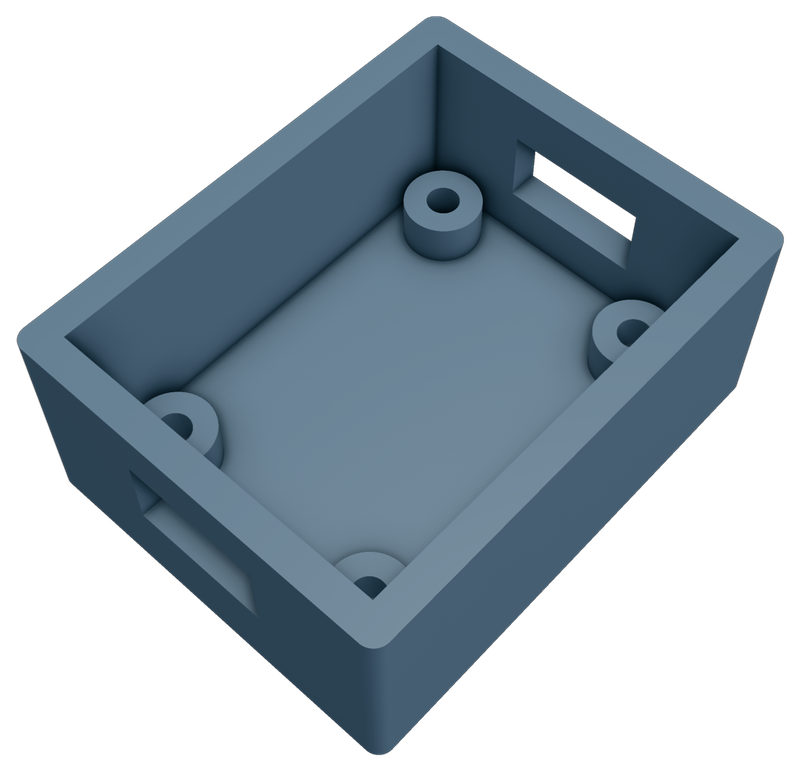
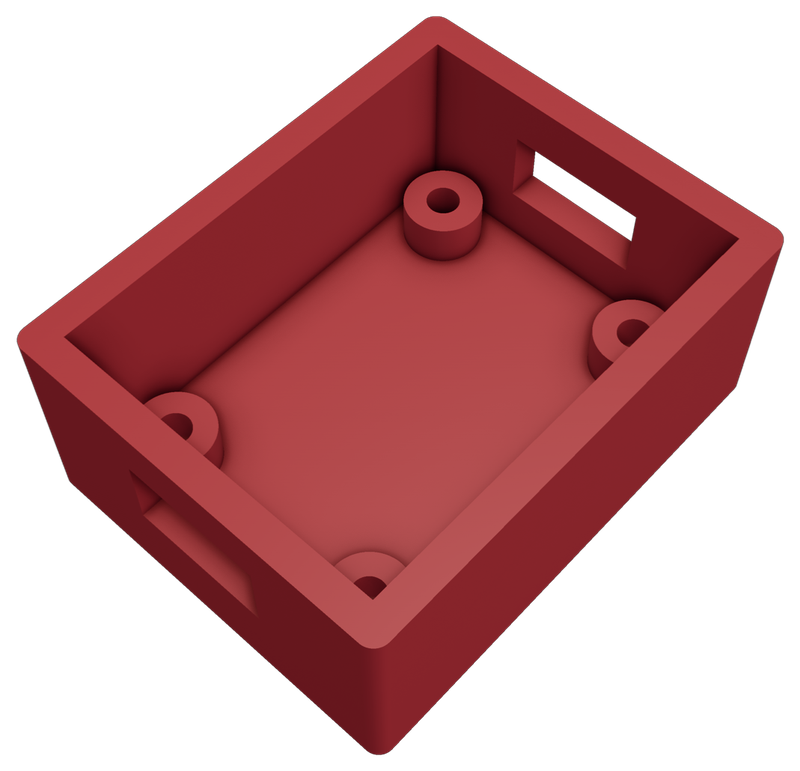
Put the parts in the suit
Red base, blue lid. The README already credits Spider-Man for the idea and the
logo is a spider; the renders may as well be in on it.

The colour values look brighter than what comes out. Filmic tone mapping
compresses the top end, so red has to be asked for at full saturation to land as
red rather than maroon. Both escapes make it worse and are noted in the script:
without tone mapping the shading goes dusty pastel, and without --hdri-ambient
the form flattens -- either way the ports and the lip stop reading, which was
the whole point of moving to f3d.

diff --git a/scripts/render_readme_assets.py b/scripts/render_readme_assets.py
@@ -67,12 +67,23 @@ PARAMS = {
 # walls hide two of the four standoffs and the part reads as an empty tray.
 CAMERA_DIRECTION = "-0.6,-0.55,-1.2"
 
+# Spider-Man's suit, because of where the idea came from — see "Why this exists".
+#
+# These are input values, and the render comes out deeper than they look: filmic tone
+# mapping compresses the top end, so red has to be asked for at full saturation to
+# arrive as red rather than maroon. Turning tone mapping off does not help — it flattens
+# the shading into dusty pastel and costs the form definition that makes the ports and
+# the lip readable. Same for dropping --hdri-ambient.
+PART_COLORS = {
+    "body": "1.0,0.15,0.17",  # suit red
+    "lid": "0.10,0.26,0.80",  # suit blue
+}
+
 RENDER_ARGS = [
     "--up=+Z",
     f"--camera-direction={CAMERA_DIRECTION}",
     "--camera-zoom-factor=0.9",
     "--resolution=1600,1200",
-    "--color=0.34,0.54,0.74",
     "--roughness=0.4",
     "--metallic=0.0",
     "--ambient-occlusion",  # reads the depth of ports, holes and the lip
@@ -90,9 +101,9 @@ RENDER_ARGS = [
 TARGET_WIDTH = 800
 
 
-def render(stl: Path, out: Path) -> None:
+def render(stl: Path, out: Path, color: str) -> None:
     result = subprocess.run(
-        ["f3d", str(stl), f"--output={out}", *RENDER_ARGS],
+        ["f3d", str(stl), f"--output={out}", f"--color={color}", *RENDER_ARGS],
         capture_output=True,
         text=True,
     )
@@ -142,7 +153,7 @@ def main() -> None:
 
         for part, stl in result.stl_paths.items():
             dest = DOCS / f"case_{part}.png"
-            render(stl, dest)
+            render(stl, dest, PART_COLORS[part])
             trim_and_scale(dest)
             print(f"  {dest.relative_to(REPO_ROOT)}  ({dest.stat().st_size:,} B)")
 
